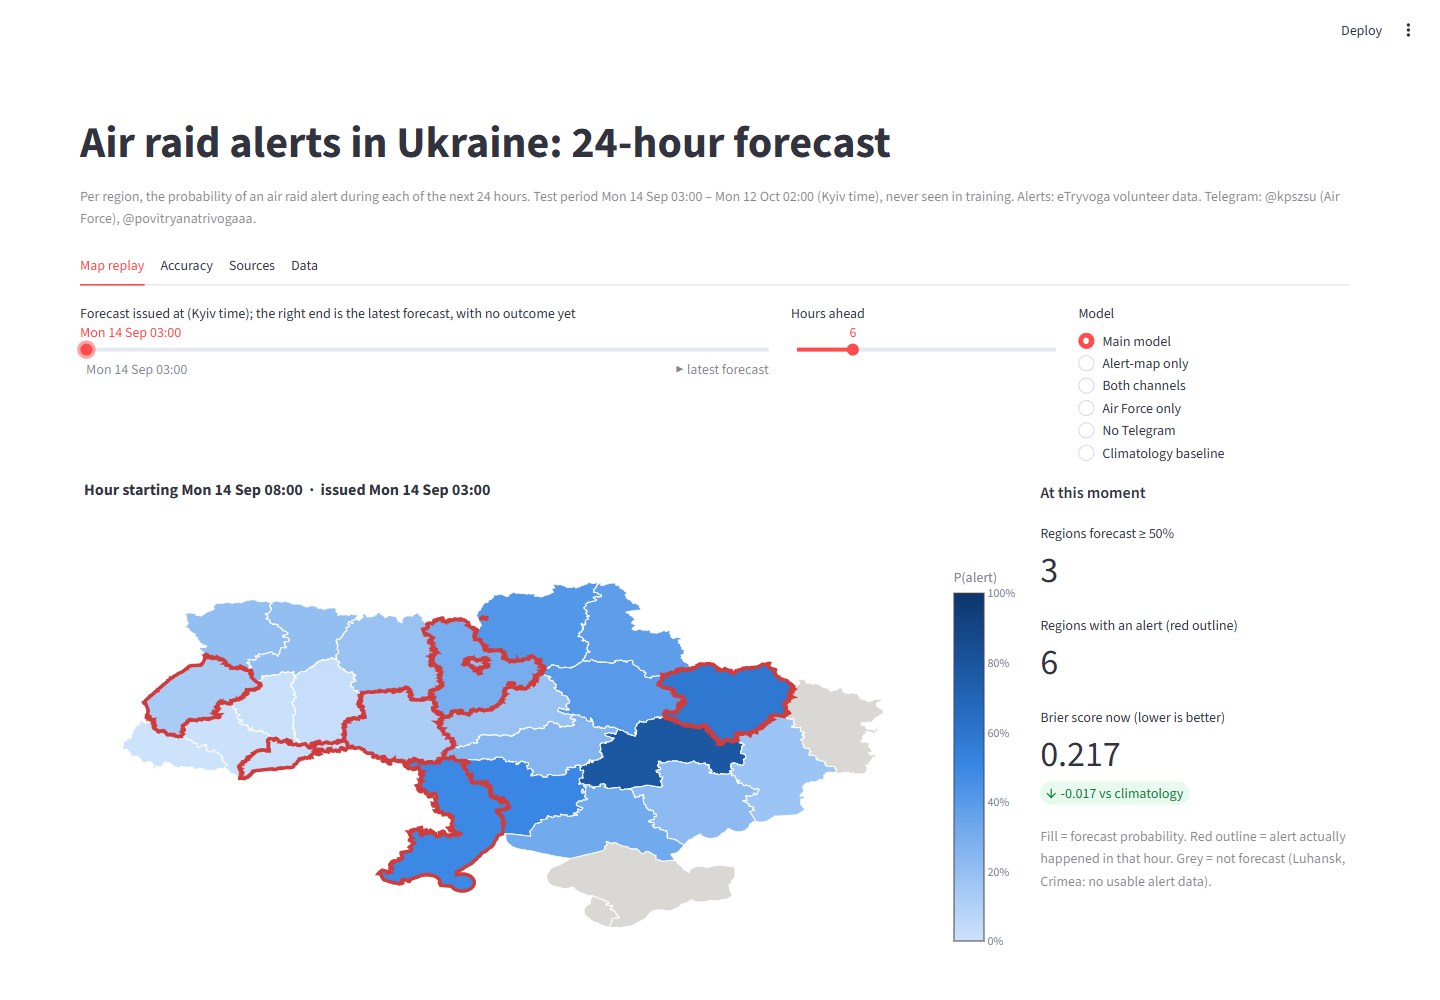
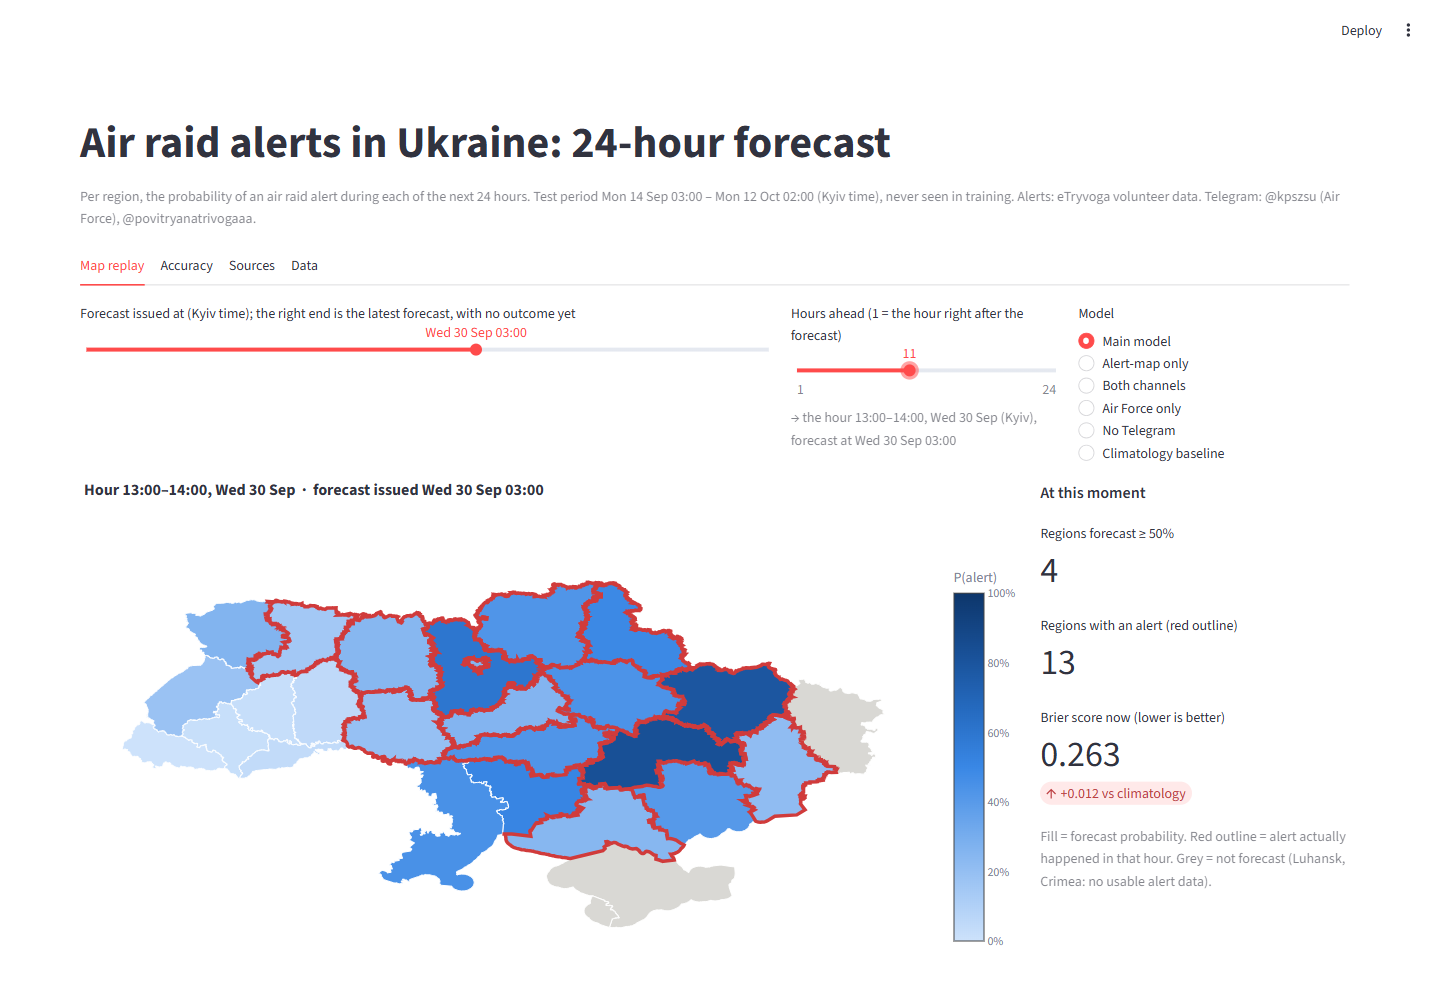
GUI: show the exact forecast hour and the 24 forecasts from one moment
- next to "Hours ahead" the app now states which hour is shown
  (e.g. "13:00-14:00, Wed 30 Sep", forecast at 03:00)
- new chart: for the chosen region, all 24 hourly forecasts made at the
  chosen moment against the hours that had an alert; the map hour is boxed
- the day-by-day chart for a fixed horizon gets a clearer title
- bars and lines are centred on the hour they describe

diff --git a/app.py b/app.py
@@ -103,6 +103,33 @@ def ukraine_map(geo, codes, probs, actual=None, title=""):
     return fig
 
 
+def hour_span(start: pd.Timestamp) -> str:
+    a = start.tz_convert("Europe/Kyiv")
+    return f"{a:%H:%M}–{a + pd.Timedelta(hours=1):%H:%M}, {a:%a %d %b}"
+
+
+def hourly_chart(starts, frame, actual, model, mark, title):
+    """Forecast probability per hour (line) against hours that had an alert (shaded), centred on each hour."""
+    mid = (starts + pd.Timedelta(minutes=30)).dt.tz_convert("Europe/Kyiv")
+    fig = go.Figure()
+    if actual is not None:
+        fig.add_trace(go.Bar(x=mid, y=actual, width=3_600_000, name="alert happened", marker_color=ALERT_RED,
+                             opacity=0.25, hovertemplate="%{x|%d %b %H:00}: alert<extra></extra>"))
+    for col in ("climatology", model if model != "climatology" else None):
+        if col:
+            fig.add_trace(go.Scatter(x=mid, y=frame[f"p_{col}"], name=MODELS[col][0], mode="lines+markers",
+                                     marker=dict(size=6),
+                                     line=dict(color=MODELS[col][1], width=2, dash="dash" if col == "climatology" else "solid"),
+                                     hovertemplate=MODELS[col][0] + ": %{y:.0%}<extra></extra>"))
+    fig.add_vrect(x0=mark.tz_convert("Europe/Kyiv"), x1=(mark + pd.Timedelta(hours=1)).tz_convert("Europe/Kyiv"),
+                  line_width=1, line_color=NEUTRAL, fillcolor="rgba(0,0,0,0)", annotation_text="map hour",
+                  annotation_position="top left")
+    fig.update_layout(height=300, margin=dict(l=10, r=10, t=40, b=10), bargap=0, title=title,
+                      yaxis=dict(tickformat=".0%", range=[0, 1]), legend=dict(orientation="h", y=-0.3),
+                      hovermode="x unified", paper_bgcolor="rgba(0,0,0,0)", plot_bgcolor="rgba(0,0,0,0)")
+    return fig
+
+
 def line_chart(df, x, cols, ytitle, yfmt=None, ref_zero=False):
     fig = go.Figure()
     for col in cols:
@@ -137,7 +164,7 @@ with tab_map:
     choice = c1.select_slider("Forecast issued at (Kyiv time); the right end is the latest forecast, with no outcome yet",
                               options=options, value=options[-1],
                               format_func=lambda o: "▶ latest forecast" if o == LATEST else kyiv(o))
-    h = c2.slider("Hours ahead", 1, 24, 6)
+    h = c2.slider("Hours ahead (1 = the hour right after the forecast)", 1, 24, 6)
     model = SOURCE_SETS[c3.radio("Model", list(SOURCE_SETS), index=0)]
 
     if choice == LATEST:
@@ -154,9 +181,10 @@ with tab_map:
         issued = choice
         note = None
     target = issued + pd.Timedelta(hours=h - 1)  # h=1 is the hour right after issuing
+    c2.caption(f"→ the hour {hour_span(target)} (Kyiv), forecast at {kyiv(issued)}")
     left, right = st.columns([3, 1])
     left.plotly_chart(ukraine_map(geo, list(rows["code"]), probs, actual,
-                                  f"Hour starting {kyiv(target)}  ·  issued {kyiv(issued)}"),
+                                  f"Hour {hour_span(target)}  ·  forecast issued {kyiv(issued)}"),
                       use_container_width=True)
     with right:
         st.markdown("**At this moment**")
@@ -172,36 +200,32 @@ with tab_map:
         st.caption("Fill = forecast probability. Red outline = alert actually happened in that hour. "
                    "Grey = not forecast (Luhansk, Crimea: no usable alert data).")
 
-    region = st.selectbox("Region timeline", [BY_CODE[c].name for c in CODES], index=CODES.index("UA-30"))
+    region = st.selectbox("Region", [BY_CODE[c].name for c in CODES], index=CODES.index("UA-30"))
     rc = CODES.index(next(c for c in CODES if BY_CODE[c].name == region))
+    shown = "main" if choice == LATEST and model != "climatology" else model
+
+    # All 24 forecasts made at the chosen moment: the view "what did the model expect for the next day".
+    if choice == LATEST:
+        one = fc[fc["region"] == rc].sort_values("h")
+        if "p_main" not in one:
+            one = one.assign(p_main=one["p"])
+        one_actual = None
+    else:
+        one = test[(test["t"] == choice) & (test["region"] == rc)].sort_values("h")
+        one_actual = one["y"]
+    starts = one["t"] + pd.to_timedelta(one["h"] - 1, unit="h")
+    st.plotly_chart(hourly_chart(starts, one, one_actual, shown, mark=target,
+                                 title=f"{region}: the 24 hourly forecasts made at {kyiv(issued)}"),
+                    use_container_width=True)
+
+    # The same horizon, issue after issue: how the h-hours-ahead forecast tracked reality.
     if choice != LATEST:
         window = test[(test["region"] == rc) & (test["h"] == h)
                       & (test["t"].between(choice - pd.Timedelta(days=3), choice + pd.Timedelta(days=3)))].sort_values("t")
-        tt = window["t"] + pd.Timedelta(hours=h - 1)
-        fig = go.Figure()
-        fig.add_trace(go.Bar(x=tt.dt.tz_convert("Europe/Kyiv"), y=window["y"], name="alert happened",
-                             marker_color=ALERT_RED, opacity=0.25, hovertemplate="%{x}: alert<extra></extra>"))
-        for col in ("climatology", model if model != "climatology" else None):
-            if col:
-                fig.add_trace(go.Scatter(x=tt.dt.tz_convert("Europe/Kyiv"), y=window[f"p_{col}"], name=MODELS[col][0],
-                                         line=dict(color=MODELS[col][1], width=2, dash="dash" if col == "climatology" else "solid")))
-        fig.add_vline(x=target.tz_convert("Europe/Kyiv"), line=dict(color=NEUTRAL, width=1, dash="dot"))
-        fig.update_layout(height=300, margin=dict(l=10, r=10, t=30, b=10), bargap=0,
-                          title=f"{region}: forecast made {h}h ahead vs what happened (±3 days)",
-                          yaxis=dict(tickformat=".0%", range=[0, 1]), legend=dict(orientation="h", y=-0.3),
-                          hovermode="x unified", paper_bgcolor="rgba(0,0,0,0)", plot_bgcolor="rgba(0,0,0,0)")
-        st.plotly_chart(fig, use_container_width=True)
-    else:
-        one = fc[fc["region"] == rc].sort_values("h")
-        fig = go.Figure()
-        x = (one["t"] + pd.to_timedelta(one["h"] - 1, unit="h")).dt.tz_convert("Europe/Kyiv")
-        fig.add_trace(go.Scatter(x=x, y=one["p"], name=MODELS["main"][0], line=dict(color=MODELS["main"][1], width=2)))
-        fig.add_trace(go.Scatter(x=x, y=one["p_climatology"], name=MODELS["climatology"][0],
-                                 line=dict(color=NEUTRAL, width=2, dash="dash")))
-        fig.update_layout(height=300, margin=dict(l=10, r=10, t=30, b=10), title=f"{region}: next 24 hours",
-                          yaxis=dict(tickformat=".0%", range=[0, 1]), legend=dict(orientation="h", y=-0.3),
-                          hovermode="x unified", paper_bgcolor="rgba(0,0,0,0)", plot_bgcolor="rgba(0,0,0,0)")
-        st.plotly_chart(fig, use_container_width=True)
+        st.plotly_chart(hourly_chart(window["t"] + pd.Timedelta(hours=h - 1), window, window["y"], shown, mark=target,
+                                     title=f"{region}: forecasts made {h} h before each hour, ±3 days around the chosen "
+                                           f"moment, vs what happened"),
+                        use_container_width=True)
 
 with tab_acc:
     st.markdown("**Brier skill vs climatology by forecast horizon** (test period; above 0 = better than the "

diff --git a/README.md b/README.md
@@ -8,6 +8,8 @@ alert-map channel (@povitryanatrivogaaa). It is evaluated on the last four weeks
 
 ![Map replay](docs/screenshots/02_map_replay.png)
 
+*Map replay: the forecast made on 30 Sep at 03:00 for the hour 13:00–14:00 (11 hours ahead). Fill = forecast probability, red outline = an alert actually happened in that hour. Here 13 regions had an alert and the model did slightly worse than climatology, an honest miss.*
+
 ## Results (test period, 14 Sep – 12 Oct 2026, 380k forecasts)
 
 Brier skill = improvement in Brier score over **climatology** (the region's alert share at that hour of
@@ -53,6 +55,7 @@ What this says:
 |---|---|
 | ![Accuracy](docs/screenshots/03_accuracy.png) | ![Sources](docs/screenshots/04_sources.png) |
 | ![Latest forecast](docs/screenshots/01_map_latest.png) | ![Data](docs/screenshots/05_data.png) |
+| ![Region: 24 forecasts from one moment](docs/screenshots/06_region_charts.png) | |
 
 ## What went wrong along the way (and what changed)
 
